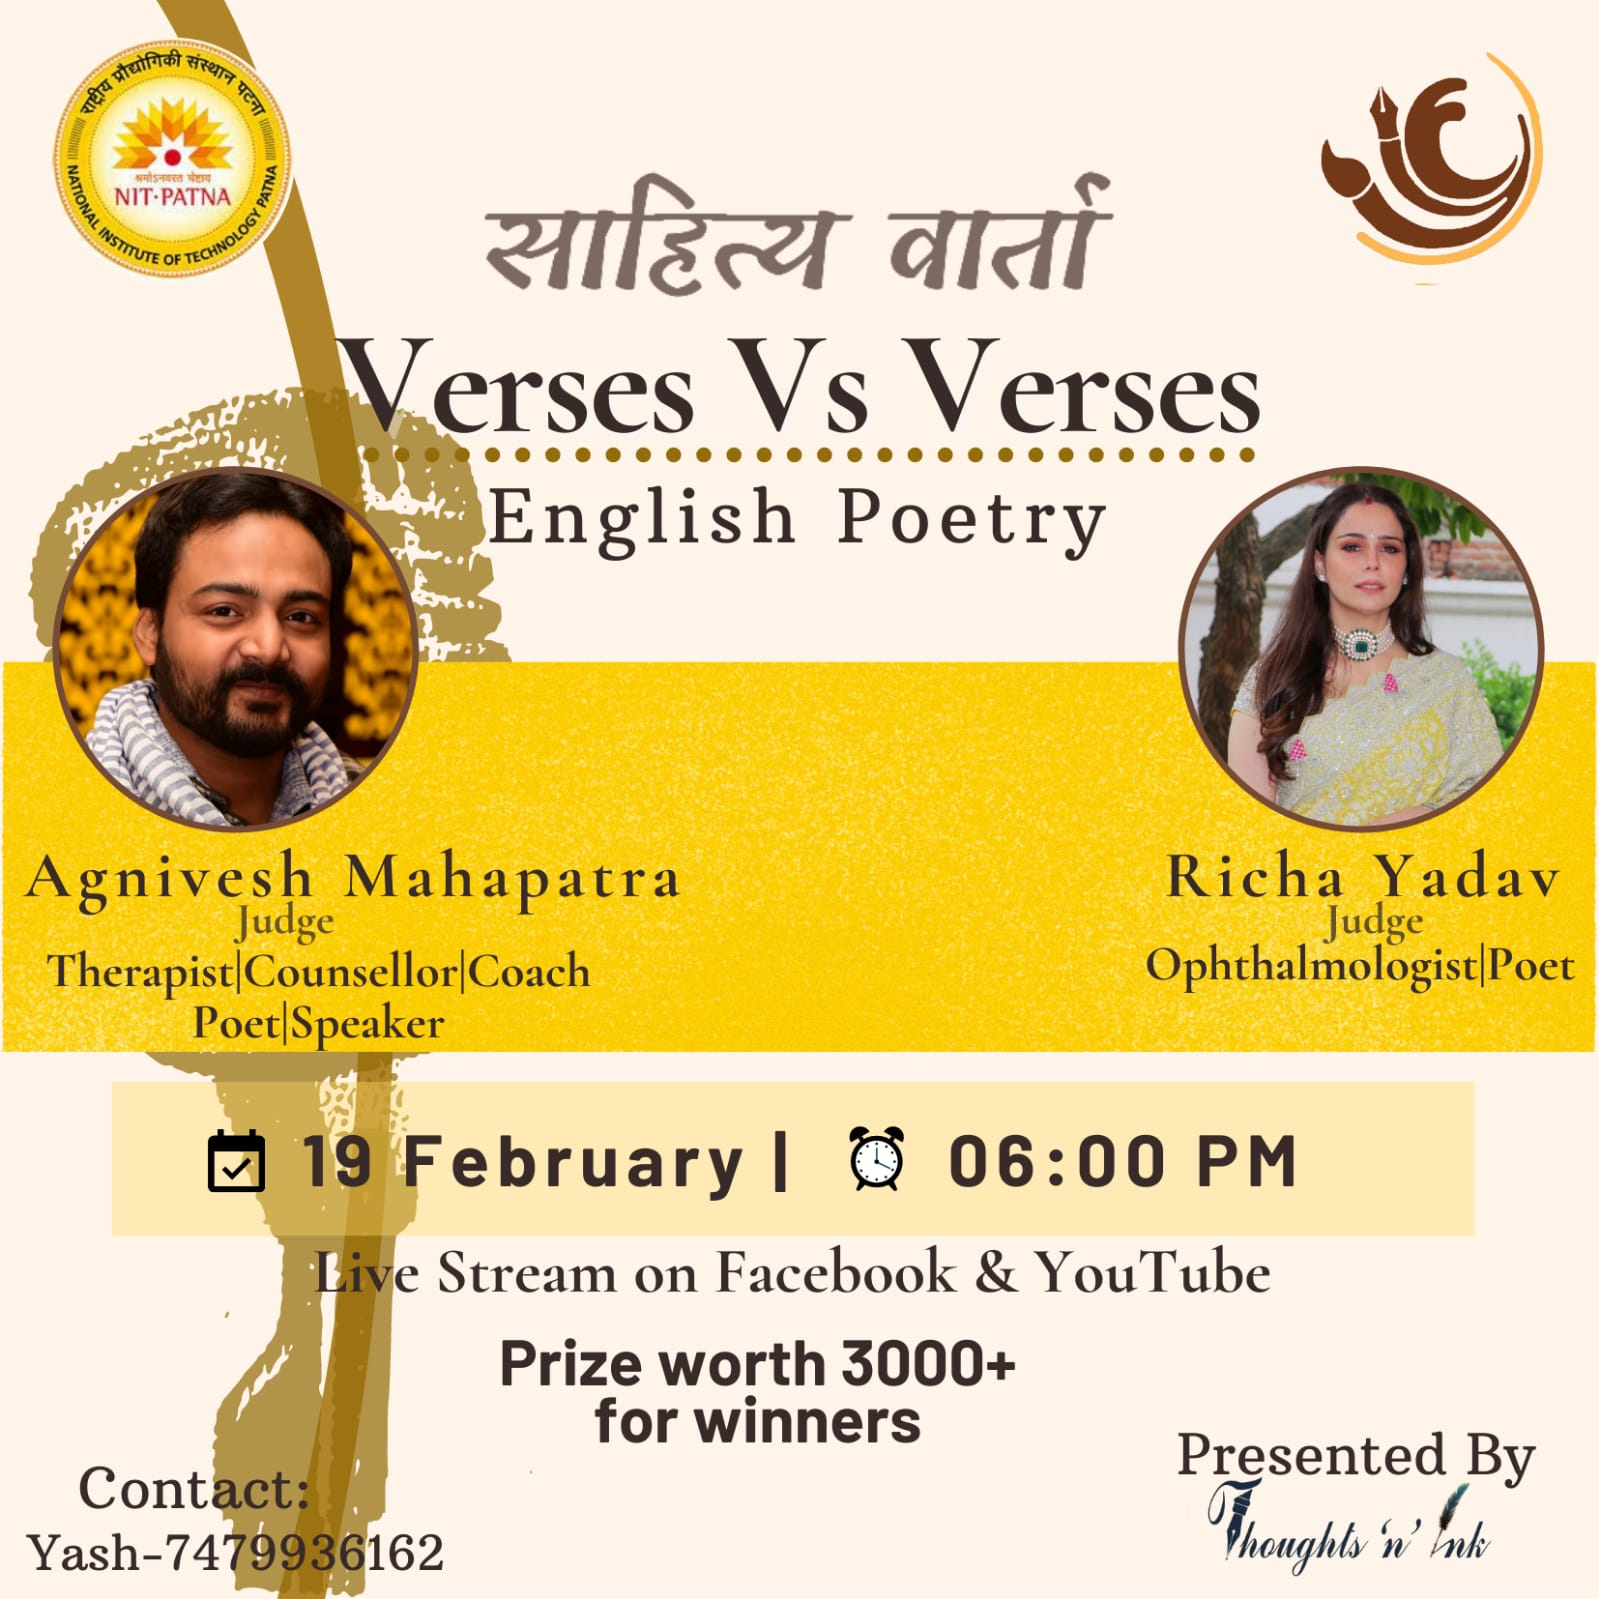
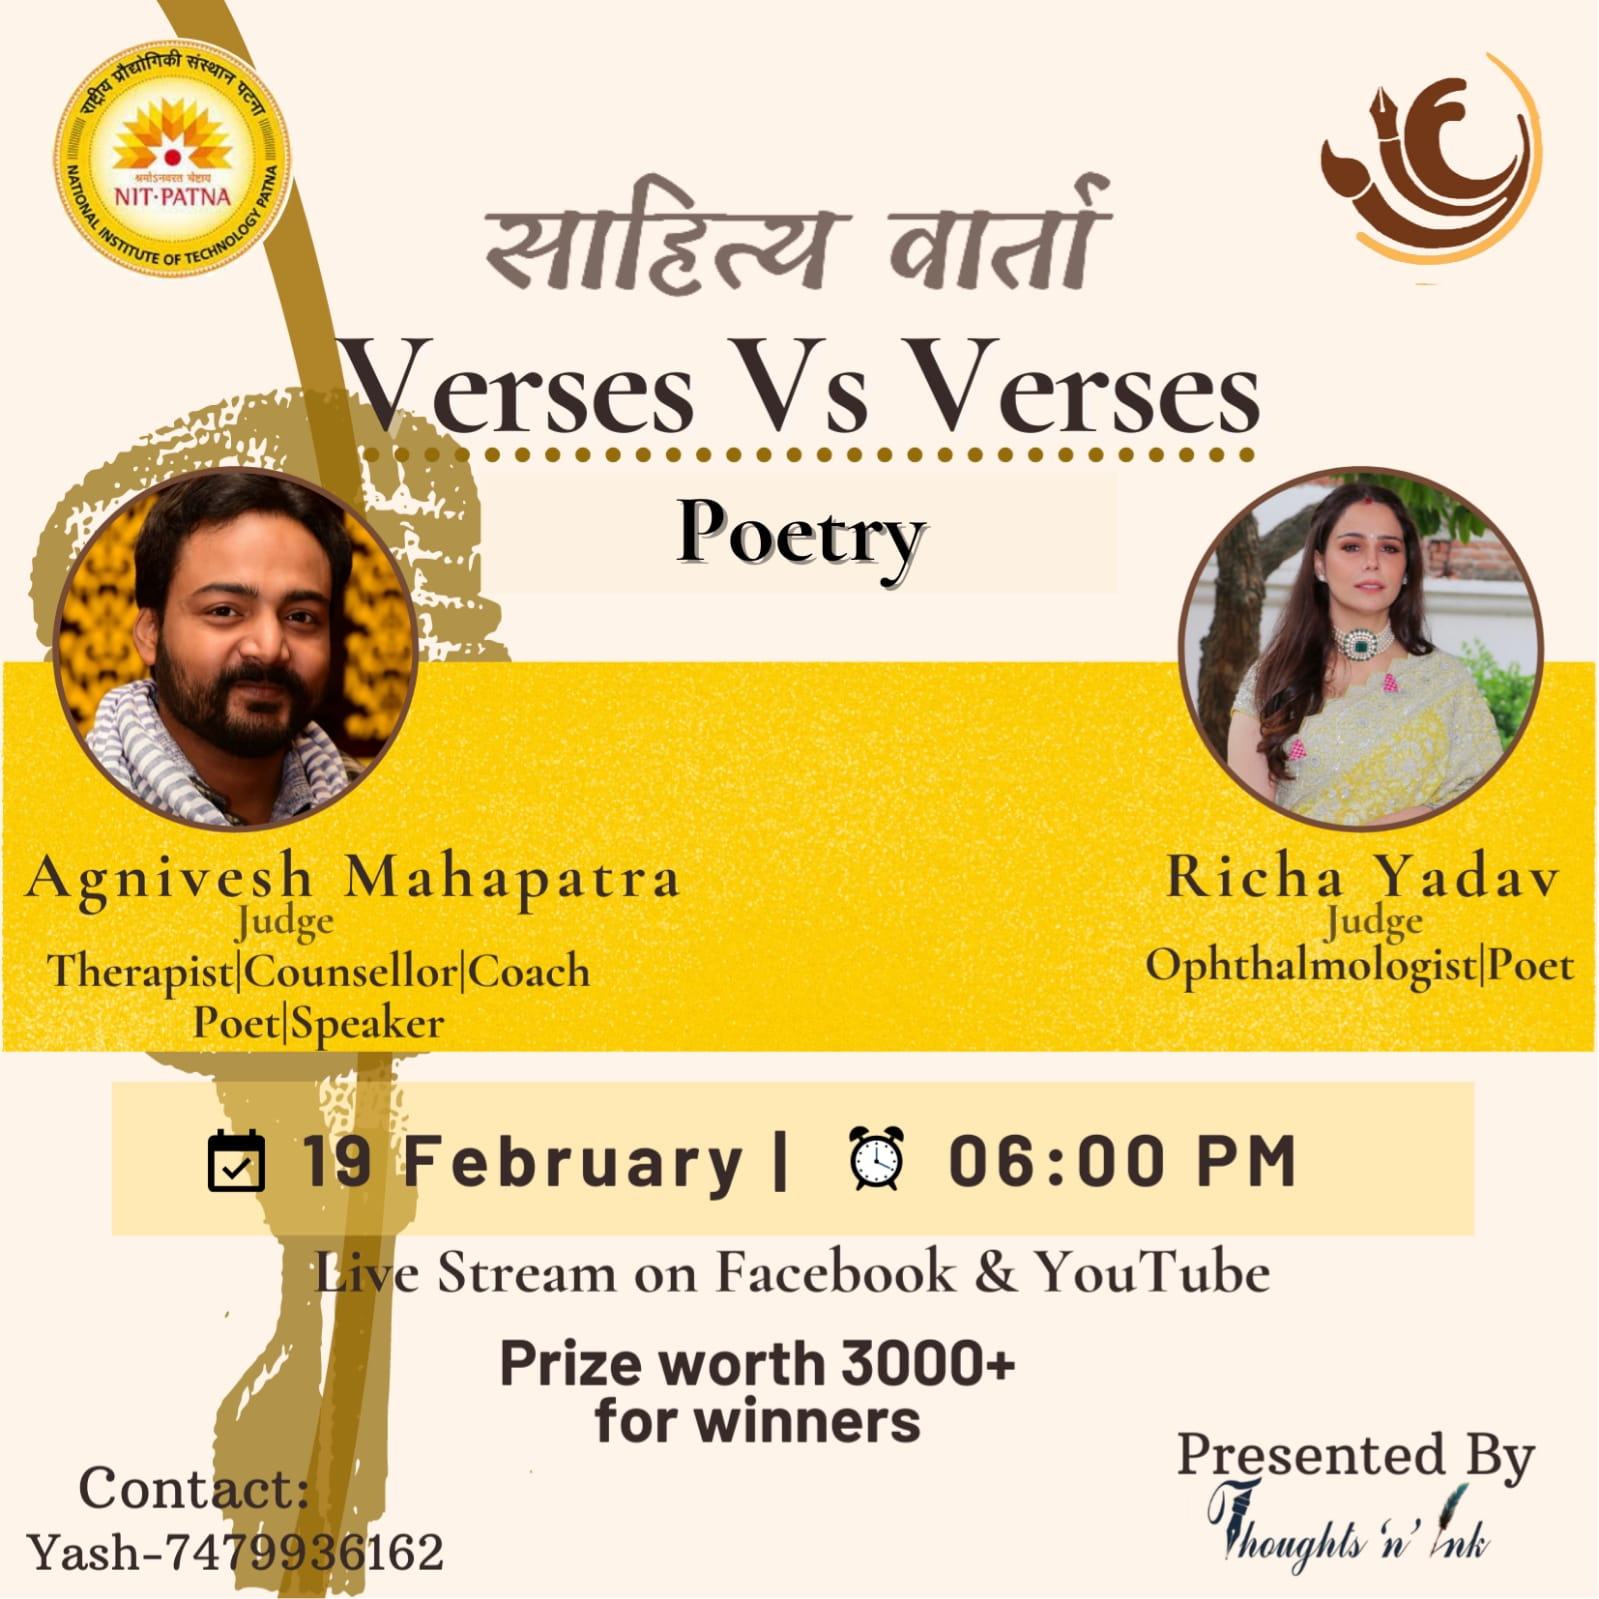
cfx

diff --git a/html_file/Sahitya Varta.html b/html_file/Sahitya Varta.html
@@ -37,7 +37,7 @@
                     <nav class="">
                         <!-- <a class="navbar-brand logo" href="index.html"><img src="logo/iconexpresso.svg" alt="EXPRESSO" >EXPRESSO</a> -->
                         <ul>
-                            <li><a href="../home.html" style="font-size: smaller"><span><b>HOME</b></span></a></li>
+                            <li><a href="../html_file/event.html" style="font-size: smaller"><span><b>BACK</b></span></a></li>
                         </ul>
                     </nav>
                 </div>
@@ -70,20 +70,13 @@
                                 <img style="width:100%;" class="" src="../images/Events/hindi debate.jpeg">
                             </div>
                             <div class=" col-lg-5 project-card__info">
-                                <h3 class="project-card__title">Vaktavya0</h3>
-                                <p class="project-card__description">
-
-                                    <span style="color: rgb(194, 123, 42)">Hey everyone! 👋</span>Hope you all are doing well🥳. <br>"Literature is the art of discovering something extraordinary about ordinary people🪄 and saying with ordinary words something
-                                    extraordinary💫."
-                                </p>
-                                <h>𝙀𝙭𝙥𝙧𝙚𝙨𝙨𝙤 𝙉𝙄𝙏𝙋</h>
-                                <p>
-                                    g to have our 𝗜𝗡𝗗𝗨𝗖𝗧𝗜𝗢𝗡 𝗣𝗥𝗢𝗚𝗥𝗔𝗠𝗠𝗘 𝟮𝟬𝟮𝟭 very soon for the session 2021-22 .
-
-                                    <span style="font-weight: 600;">29 JAN 2022</span>, 5:00pm IST. <br> For further upadates and result stay tuned to our
+                                <h3 class="project-card__title">Vaktavya</h3>
+                                <p class="project-card__description">इस प्रतियोगिता के २ स्तर होंगे<br> 🔸पहला स्तर (Preliminary round)<br> दिनांक -17th Feb 2022 <br> समय – 4 PM<br> 🔸दूसरा स्तर (Final Round)<br> दिनांक -18th Feb 2022<br> समय- 7-8:30PM<br> विषय- भारत में आरक्षण प्रणाली (Reservation
+                                    system) का वर्तमान स्वरूप सही हैं?<br> निर्णायक - संजय द्विवेदी, वीणा कुमारी<br> 🔸🥇 विजेताओं को पुरस्कृत किया जाएगा (prizes worth Rs.3000)<br>
+                                    <br> For further upadates and result stay tuned to our
                                     <a href="https://www.instagram.com/expresso_nitp/"></a><span style="color: rgb(194, 123, 42);">Instagram Page</span>.
                                 </p>
-                                <a href="https://script.google.com/macros/s/AKfycbxzOa6zgnrf8lGgSruIT8DH8f9R84CLxCkP_3mPy704-P2Da470FjRAby0ZMDd8QjCN-w/exec" class="btn btn-primary" role="button">APPLY NOW</a>
+                                <a href="https://script.google.com/macros/s/AKfycbxCz3n2n_KjUp2c-80zGtFu5rYLqzLbLbUBotZ4Qaz9NQpMebUzez9EsRgrvJ6QyPycbg/exec" class="btn btn-primary" role="button">APPLY NOW</a>
                             </div>
                         </div>
                     </div>
@@ -99,51 +92,18 @@
                                 <h3 class="project-card__title">Verses Vs Verses</h3>
                                 <p class="project-card__description">
 
-                                    <span style="color: rgb(194, 123, 42)">Hey everyone! 👋</span>Hope you all are doing well🥳. <br>"Literature is the art of discovering something extraordinary about ordinary people🪄 and saying with ordinary words something
-                                    extraordinary💫."
-                                </p>
-                                <h>𝙀𝙭𝙥𝙧𝙚𝙨𝙨𝙤 𝙉𝙄𝙏𝙋</h>
-                                <p>
-                                    g to have our 𝗜𝗡𝗗𝗨𝗖𝗧𝗜𝗢𝗡 𝗣𝗥𝗢𝗚𝗥𝗔𝗠𝗠𝗘 𝟮𝟬𝟮𝟭 very soon for the session 2021-22 .
+                                    "Poetries are not just poetries, they are mirrors to your soul…"<br> Poetry competition<br> There will be 2 levels<br> 🔸Round 1 - Elimination round<br> *Participants will submit their poems and the selected ones will
+                                    qualify to the Recitation round.<br> 🔸Round 2 - Recitation Evening<br> Date- 19th Feb 2022<br> Time- 6-7:30 PM<br> Topic-
+                                    <br> Judges- Agnimesh Mahapatra, Richa Yadav<br> 🔸🥇Winners will be awarded with prizes (worth Rs.3000)
 
-                                    <span style="font-weight: 600;">29 JAN 2022</span>, 5:00pm IST. <br> For further upadates and result stay tuned to our
+                                    <br> For further upadates and result stay tuned to our
                                     <a href="https://www.instagram.com/expresso_nitp/"></a><span style="color: rgb(194, 123, 42);">Instagram Page</span>.
                                 </p>
-                                <a href="https://script.google.com/macros/s/AKfycbxzOa6zgnrf8lGgSruIT8DH8f9R84CLxCkP_3mPy704-P2Da470FjRAby0ZMDd8QjCN-w/exec" class="btn btn-primary" role="button">APPLY NOW</a>
+                                <a href="https://script.google.com/macros/s/AKfycbyCtyJt5dPo_6eaq8-42thLRHgLMSwu4NoqZF6NNw8WaVBNnbydHA8oU7t944A5pEh9rg/exec" class="btn btn-primary" role="button">APPLY NOW</a>
                             </div>
                         </div>
                     </div>
                 </div>
-
-
-
-
-                <div class="portfolio-wrapper">
-                    <div class="portfolio-cards js-loaded-projects" id="myBtn">
-                        <div class="row project-card" data-toggle="modal" data-target="#portfolioModal" data-portfolio-tag="Web Application">
-                            <div class=" col-lg-7 project-card__img">
-                                <img style="width:100%;" class="" src="../images/Events/Talk Show.jpeg">
-                            </div>
-                            <div class=" col-lg-5 project-card__info">
-                                <h3 class="project-card__title">Talk Show</h3>
-                                <p class="project-card__description">
-
-                                    <span style="color: rgb(194, 123, 42)">Hey everyone! 👋</span>Hope you all are doing well🥳. <br>"Literature is the art of discovering something extraordinary about ordinary people🪄 and saying with ordinary words something
-                                    extraordinary💫."
-                                </p>
-                                <h>𝙀𝙭𝙥𝙧𝙚𝙨𝙨𝙤 𝙉𝙄𝙏𝙋</h>
-                                <p>
-                                    g to have our 𝗜𝗡𝗗𝗨𝗖𝗧𝗜𝗢𝗡 𝗣𝗥𝗢𝗚𝗥𝗔𝗠𝗠𝗘 𝟮𝟬𝟮𝟭 very soon for the session 2021-22 .
-
-                                    <span style="font-weight: 600;">29 JAN 2022</span>, 5:00pm IST. <br> For further upadates and result stay tuned to our
-                                    <a href="https://www.instagram.com/expresso_nitp/"></a><span style="color: rgb(194, 123, 42);">Instagram Page</span>.
-                                </p>
-                                <a href="https://script.google.com/macros/s/AKfycbxzOa6zgnrf8lGgSruIT8DH8f9R84CLxCkP_3mPy704-P2Da470FjRAby0ZMDd8QjCN-w/exec" class="btn btn-primary" role="button">APPLY NOW</a>
-                            </div>
-                        </div>
-                    </div>
-                </div>
-
 
                 <div class="portfolio-wrapper">
                     <div class="portfolio-cards js-loaded-projects" id="myBtn">
@@ -155,17 +115,31 @@
                                 <h3 class="project-card__title">kakahara</h3>
                                 <p class="project-card__description">
 
-                                    <span style="color: rgb(194, 123, 42)">Hey everyone! 👋</span>Hope you all are doing well🥳. <br>"Literature is the art of discovering something extraordinary about ordinary people🪄 and saying with ordinary words something
-                                    extraordinary💫."
-                                </p>
-                                <h>𝙀𝙭𝙥𝙧𝙚𝙨𝙨𝙤 𝙉𝙄𝙏𝙋</h>
-                                <p>
-                                    g to have our 𝗜𝗡𝗗𝗨𝗖𝗧𝗜𝗢𝗡 𝗣𝗥𝗢𝗚𝗥𝗔𝗠𝗠𝗘 𝟮𝟬𝟮𝟭 very soon for the session 2021-22 .
-
-                                    <span style="font-weight: 600;">29 JAN 2022</span>, 5:00pm IST. <br> For further upadates and result stay tuned to our
+                                    हम मनुष्य जीवन भर केवल एक छात्र हैं।<br> (और किसीने खूब कहा है कि ज्ञान जहां से मिले, ले लेना चाहिए)<br> ✴ककहरा✴
+                                    <br> Guest Speaker- Dr.Neelima Singh<br> दिनांक- 20th Feb 2022<br> समय- 3-5 PM<br> For further upadates and result stay tuned to our
                                     <a href="https://www.instagram.com/expresso_nitp/"></a><span style="color: rgb(194, 123, 42);">Instagram Page</span>.
                                 </p>
-                                <a href="https://script.google.com/macros/s/AKfycbxzOa6zgnrf8lGgSruIT8DH8f9R84CLxCkP_3mPy704-P2Da470FjRAby0ZMDd8QjCN-w/exec" class="btn btn-primary" role="button">APPLY NOW</a>
+                                <!-- <a href="https://script.google.com/macros/s/AKfycbxzOa6zgnrf8lGgSruIT8DH8f9R84CLxCkP_3mPy704-P2Da470FjRAby0ZMDd8QjCN-w/exec" class="btn btn-primary" role="button">APPLY NOW</a> -->
+                            </div>
+                        </div>
+                    </div>
+                </div>
+
+                <div class="portfolio-wrapper">
+                    <div class="portfolio-cards js-loaded-projects" id="myBtn">
+                        <div class="row project-card" data-toggle="modal" data-target="#portfolioModal" data-portfolio-tag="Web Application">
+                            <div class=" col-lg-7 project-card__img">
+                                <img style="width:100%;" class="" src="../images/Events/Talk Show.jpeg">
+                            </div>
+                            <div class=" col-lg-5 project-card__info">
+                                <h3 class="project-card__title">Talk Show</h3>
+                                <p class="project-card__description">
+
+                                    Guest speaker- Geetanjali Shree<br> Date- 21st Feb 2022<br> Time- 7-8:30 PM<br> हिंदी साहित्य हमारी पहचान व हमारा गर्व हैं।<br> इस विषय पर अपने आपको सचेत करने का यह अवसर गंवाना सही नहीं…! <br> For further upadates and
+                                    result stay tuned to our
+                                    <a href="https://www.instagram.com/expresso_nitp/"></a><span style="color: rgb(194, 123, 42);">Instagram Page</span>.
+                                </p>
+                                <!-- <a href="https://script.google.com/macros/s/AKfycbxzOa6zgnrf8lGgSruIT8DH8f9R84CLxCkP_3mPy704-P2Da470FjRAby0ZMDd8QjCN-w/exec" class="btn btn-primary" role="button">APPLY NOW</a> -->
                             </div>
                         </div>
                     </div>

diff --git a/html_file/event.html b/html_file/event.html
@@ -73,14 +73,12 @@
                                 <h3 class="project-card__title">Sahitya Varta</h3>
                                 <p class="project-card__description">
 
-                                    <span style="color: rgb(194, 123, 42)">Hey everyone! 👋</span>Hope you all are doing well🥳. <br>"Literature is the art of discovering something extraordinary about ordinary people🪄 and saying with ordinary words something
-                                    extraordinary💫."
+                                    <span style="color: rgb(194, 123, 42)">Hey everyone! 👋</span>Hope you all are doing well🥳. <br>"Literature is the art of discovering something extraordinary about ordinary people🪄
                                 </p>
-                                <h>𝙀𝙭𝙥𝙧𝙚𝙨𝙨𝙤 𝙉𝙄𝙏𝙋</h>
+                                <h>𝙀𝙭𝙥𝙧𝙚𝙨𝙨𝙤 𝙉𝙄𝙏𝙋 in Association with Thoughts 'n' Ink </h>
                                 <p>
-                                    is feeling so thrilled🤩 to share this with you all that we are going to have our 𝗜𝗡𝗗𝗨𝗖𝗧𝗜𝗢𝗡 𝗣𝗥𝗢𝗚𝗥𝗔𝗠𝗠𝗘 𝟮𝟬𝟮𝟭 very soon for the session 2021-22 .
-                                    <br><br>deadline for submit your entry is
-                                    <span style="font-weight: 600;">29 JAN 2022</span>, 5:00pm IST. <br> For further upadates and result stay tuned to our
+
+                                    </span><br> For further upadates and result stay tuned to our
                                     <a href="https://www.instagram.com/expresso_nitp/"></a><span style="color: rgb(194, 123, 42);">Instagram Page</span>.
                                 </p>
                                 <a href="../images/Events/Sahitya Varta Rulebook.pdf" class="btn btn-primary" role="button">Rulebook</a>
